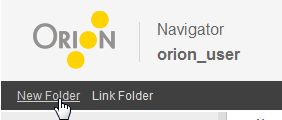
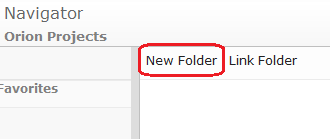
Major updates to user guide for 0.4

diff --git a/doc/org.eclipse.orion.doc.user/WikiDoc/Orion/Documentation/User_Guide/Reference/Search_Results_page/Search-Results-page.html b/doc/org.eclipse.orion.doc.user/WikiDoc/Orion/Documentation/User_Guide/Reference/Search_Results_page/Search-Results-page.html
@@ -6,16 +6,89 @@
 		<link type="text/css" rel="stylesheet" href="../../../../../book.css"/>
 	</head>
 	<body>
+		<table class="navigation" style="width: 100%;" border="0" summary="navigation">
+			<tr>
+				<th style="width: 100%" align="center" colspan="3">Search Results page</th>
+			</tr>
+			<tr>
+				<td style="width: 20%" align="left"></td>
+				<td style="width: 60%" align="center"></td>
+				<td style="width: 20%" align="right">
+					<a href="Replace-page.html" title="Replace page">
+						<img alt="Next" border="0" src="../../../../../images/next.gif"/>
+					</a>
+				</td>
+			</tr>
+			<tr>
+				<td style="width: 20%" align="left" valign="top"></td>
+				<td style="width: 60%" align="center"></td>
+				<td style="width: 20%" align="right" valign="top">Replace page</td>
+			</tr>
+		</table><hr/>
 		<h1 id="Search_Results_page">Search Results page</h1>
-		<p>The <b>Search Results</b> page displays matches for any search performed in the search entry field in the title area of any page. Each search result includes a link to the file, and a snippet of the first matching portion of the text. This is a natural language search, so searching for "progress bar" will also find similar terms such as "ProgressBar", and words with the same common root ("progressive", "bars", etc).</p>
-		<p>Click <b>Save Search</b> in the tool bar to bookmark a link to this search for future use. Note that this is a bookmark to the search, rather than a specific search result. Clicking a link in the <b>Searches</b> list of the Favorites panel will perform a new search with the same search terms.</p>
+		<p>The <b>Search Results</b> page displays files for any search performed in the search entry field in the title area of any page. Each file is expandable to display all the matches with the lines containing the search keyword and the line number. You can use right arrow key to pop up a 5-line context around the line or you can click on any file or match to open the Orion editor to see the whole file at that line. The page is designed to display multiple pages if the result files exceeds 40. There are previous and next page actions in the tool bar for you to go through all the results.</p>
 		<p>
-			<img border="0" src="images/Orion-search-results-page.png"/>
+			<img border="0" src="images/Orion-search-ResultOverview.png"/>
 		</p>
-		<h2 id="Updating_this_document">Updating this document</h2>
-		<p>This document is maintained in a collaborative wiki.  If you wish to update or modify this document please visit 
-
-			<a href="http://wiki.eclipse.org/Orion/Documentation/User_Guide/Reference/Search_Results_page" target="orion_external">http://wiki.eclipse.org/Orion/Documentation/User_Guide/Reference/Search_Results_page</a>
+		<h2 id="Starting_search">Starting search</h2>
+		<p>Starting search is very simple: just type or paste a keyword in the search entry field and hit enter. The result will be displayed in the same tab of your browser where you entered the keyword. The header of the result displays the total file number and the number range of the first page. Both literal and wild card search are supported. For example, "fo*ar" will hit all the files containing "foobar" while "fo??ar" will hit the same files. Please also note that the search ignores case.</p>
+		<p>
+			<img border="0" src="images/Search_starting_search.png"/>
 		</p>
+		<h2 id="Search_scopes">Search scopes</h2>
+		<p>If you start a search from a page where a folder is presented, or in another word, if bread crumb is presented, the place holder of the search entry field indicates the folder name on which your search will start. Currently the pages supporting this are navigator, git log, editor and search pages. For all other pages, the search will start from the project root. But once you are in the search result page, you can scope up and down the result on the same keyword.</p>
+		<p>
+			<img border="0" src="images/Search_scope_overall.png"/>
+		</p>
+		<h3 id="Scoping_down">Scoping down</h3>
+		<p>Lets assume that you just searched for "function" on a folder and you got 265 files but you want to see the results on a folder you are interested. You can now click on the location column where the interesting folder is presented. The result will be scoped down to that folder by the same keyword.</p>
+		<p>
+			<img border="0" src="images/Search_scope_down.png"/>
+		</p>
+		<h3 id="Scoping_up">Scoping up</h3>
+		<p>If your search result presents a sub folder but you want a broader scope, you can click on any segment in the bread crumb. The result will be scoped up to that folder by the same keyword.</p>
+		<p>
+			<img border="0" src="images/Search_scope_up.png"/>
+		</p>
+		<h2 id="Saving_search">Saving search</h2>
+		<p>Click <b>Save Search</b> in the tool bar to bookmark a link to this search for future use. Lets say you are searching "foo" on folder "bar". The default name of the saved search is "foo in bar" but you can rename it later to a more meaningful one. Note that this is a bookmark to the search, rather than a specific search result. Clicking on a link in the <b>Searches</b> list of the Favorites panel will perform a new search with the same search terms.</p>
+		<p>
+			<img border="0" src="images/Search_save_search.png"/>
+		</p>
+		<h2 id="Navigating_matches">Navigating matches</h2>
+		<p>There are 4 actions in the tool bar for navigating matches. <b>Expand all</b> and <b>Collapse all</b> are convenient actions to view all matches or just view the file list. <b>Up</b> and <b>Down</b> allow you to just iterate all the files and matches top-down or bottom-up. While you are iterating, the current <b>cursor</b> is moving to indicate where you are. You can also jump over to a specific file or match by clicking on that row, which gives a quick switch-over to where you want to start the iteration. The current <b>cursor</b> is always cached as the browser's cookie based on the search URL. If you leave the page and come back or refresh the page, the current cursor is restored.</p>
+		<h2 id="Key_board_navigation">Key board navigation</h2>
+		<p>When search result page is loaded, the result pane is focused and the current cursor is highlighted. You can use the 4 arrow keys to navigate on the current cursor. Up and down keys to iterate files and matches and left and right keys to collapse and expand files. Note that key board navigation is available only when the <b>result pane</b> gets focus. If focus is not on the result pane, just click on any place in the result pane to get it back.</p>
+		<p>
+			<img border="0" src="images/Search_kb_navigation.png"/>
+		</p>
+		<h2 id="Viewing_details">Viewing details</h2>
+		<p>There are two ways to view details on a match. When the current cursor is on a match, pressing right arrow key will pop up a context tip with 5 lines of code around the hit line. Note that if you use up and down arrow keys from now, the context tip changes contents when a match is iterated. Use left arrow key to cancel context tip. If you want to view more details, press enter key or click on the link of the match. This will open the Orion editor with the line located at the matching place.</p>
+		<p>
+			<img border="0" src="images/Search_view_details.png"/>
+		</p>
+		<h2 id="Navigating_pages">Navigating pages</h2>
+		<p>If the matching file number exceeds the page size, which is 40 by default, the <b>Next page</b> and <b>Previous page</b> actions will appear in the tool bar. Although it is not recommended to change the search URL, but if you really want to view all the results in one page you can change the <b>rows</b> parameter to the total file number. In the example above you can change rows=265 so that the new search url will look like 
+			<a href="http://orion.eclipse.org/search/search.html#?sort=Path" target="orion_external">http://orion.eclipse.org/search/search.html#?sort=Path</a> asc&amp;<b>rows=265</b>&amp;start=0&amp;q=function+Location:/file/B2/bundles/*.  Note that changing this to a large number should only be used in some rare cases, such as replacing more than 40 files at once. Please also note that this could slow down the search and introduce server timeout.
+		</p>
+		<h2 id="Sort_by_name_or_location">Sort by name or location</h2>
+		<h2 id="Stale_files">Stale files</h2>
+		<h2 id="Current_limitation">Current limitation</h2><hr/>
+		<table class="navigation" style="width: 100%;" border="0" summary="navigation">
+			<tr>
+				<td style="width: 20%" align="left"></td>
+				<td style="width: 60%" align="center"></td>
+				<td style="width: 20%" align="right">
+					<a href="Replace-page.html" title="Replace page">
+						<img alt="Next" border="0" src="../../../../../images/next.gif"/>
+					</a>
+				</td>
+			</tr>
+			<tr>
+				<td style="width: 20%" align="left" valign="top"></td>
+				<td style="width: 60%" align="center"></td>
+				<td style="width: 20%" align="right" valign="top">Replace page</td>
+			</tr>
+		</table>
 	</body>
 </html>

diff --git a/doc/org.eclipse.orion.doc.user/WikiDoc/Orion/Documentation/User_Guide/Getting_started/Getting-started.html b/doc/org.eclipse.orion.doc.user/WikiDoc/Orion/Documentation/User_Guide/Getting_started/Getting-started.html
@@ -20,7 +20,9 @@
 			<a href="../../../../\Orion\Documentation\User_Guide\Reference\Navigator_page/Navigator-page.html" title="Orion/Documentation/User_Guide/Reference/Navigator_page">Navigator page</a> is used to browse and modify your files.
 		</p>
 		<h3 id="Creating_folders_and_files">Creating folders and files</h3>
-		<p>Once you've successfully logged into Orion, you'll see the navigator page. This is where your files and folders will be shown. Because you haven't created any files or folders yet, the navigator is initially empty.</p>
+		<p>Once you've successfully logged into Orion, go to the 
+			<a href="../../../../\Orion\Documentation\User_Guide\Reference\Navigator_page/Navigator-page.html" title="Orion/Documentation/User_Guide/Reference/Navigator_page">Navigator page</a> by clicking <b>Navigator</b> in the banner at the top of any page. This is where your files and folders will be shown. Because you haven't created any files or folders yet, the navigator is initially empty.
+		</p>
 		<p>
 			<img border="0" src="images/Orion-navinitial.png"/>
 		</p>
@@ -34,27 +36,23 @@
 		<p>
 			<img border="0" src="images/Orion-navbreadcrumb.png"/>
 		</p>
-		<h3 id="Using_commands">Using commands</h3>
-		<p>Global commands for Orion (such as search, user profile, and help) appear at the top right of the page. Links to other pages appear beside the global commands.
-			Commands that operate on the navigator (such as <tt>New File</tt>, <tt>New Folder</tt>) are located on the left side of the dark bar in the banner.</p>
+		<h3 id="Using_the_common_banner">Using the common banner</h3>
+		<p>The banner provides access to common operations in Orion.  The main navigation links appear at the top left of the page banner, next to the Orion logo.  The right side of the banner provides links to the user profile and an options menu containing settings, help, and other commonly used actions.  Underneath, the page header describes the title of the page, the breadcrumb, and the name of the resource being manipulated.  On the right of the page header are items that let you quickly find and mark pages that you commonly use.  The star icon allows you to mark the current page as a favorite.  The search box and <tt>Related pages</tt> menu allow you to quickly navigate to a new page.  </p>
+		<p>Below the banner, the content of the page appears.  Commands that operate on the content itself (such as <tt>New File</tt>, <tt>New Folder</tt> in the navigator) are located in the toolbar above the content.</p>
 		<p>
 			<img border="0" src="images/Orion-topbanner.png"/>
 		</p>
-		<p>Commands that apply to an individual file or folder are located in the 
-			<b>Actions</b> column next to the item.
-		</p>
+		<p>Commands that apply to an individual file or folder are located in an actions menu next to the item in the navigator.</p>
 		<p>
 			<img border="0" src="images/Orion-navactions.png"/>
 		</p>
-		<p>Files and folders may be selected by clicking the checkbox beside their name. Commands that operate on the selected items (such as move, copy, and delete) will appear on the dark bar in the banner when a selection has been made.</p>
+		<p>Files and folders may be selected by clicking the checkbox beside their name. Commands that operate on the selected items (such as move, copy, and delete) will appear on the navigator toolbar when a selection has been made.</p>
 		<h3 id="Importing_folders_and_files">Importing folders and files</h3>
-		<p>You can upload zip files from your local machine to the server using the import menu.  </p>
+		<p>There are many ways to import your files into Orion. You can upload a zip file, import via SFTP, or clone a Git repository.</p>
 		<p>
 			<img border="0" src="images/Orion-navimport.png"/>
 		</p>
-		<p>To import projects from Eclipse (or any other IDE, or your local file system) into Orion, you must first zip up the files you wish to import.   Choose this zip file in the file selection prompt offered in the import dialog available when moving the cursor to a folder line and clicking More.  (Choosing a non-zip file may break the import dialog on some browsers, see 
-			<a href="https://bugs.eclipse.org/bugs/show_bug.cgi?id=335890" target="orion_external">Bug 335890</a>).
-		</p>
+		<p>To import files from your local file system into Orion, you must first zip up the files you wish to import.   Choose this zip file in the file selection prompt offered in the import dialog available in the menu next to each folder.</p>
 		<p>
 			<img border="0" src="images/Orion-navimportdialog.png"/>
 		</p>
@@ -73,7 +71,7 @@
 		</p>
 		<h3 id="Creating_favorites">Creating favorites</h3>
 		<p>You can use the 
-			<b>Favorites</b> icon to bookmark a folder or file in your navigator. A link to this folder or file will appear in your favorites list and can be used to navigate quickly to that file or folder. 
+			<b>Favorites</b> icon in the page header or the favorites menu item to bookmark a folder or file in your navigator. A link to this folder or file will appear in your favorites list and can be used to navigate quickly to that file or folder. 
 		</p>
 		<p>
 			<img border="0" src="images/Orion-favorites.png"/>
@@ -81,6 +79,12 @@
 		<p>Favorites are also suggested as move/copy targets.</p>
 		<p>
 			<img border="0" src="images/Orion-copymove.png"/>
+		</p>
+		<p>They also appear in the 
+			<b>Find File</b> dialog.
+		</p>
+		<p>
+			<img border="0" src="images/Orion-findfile.png"/>
 		</p>
 		<h3 id="Extending_the_navigator">Extending the navigator</h3>
 		<p>We've implemented an extension point that allows a plug-in to add commands to the navigator's toolbar and local item actions.  To see what plug-ins are installed in your Orion system, open the 

diff --git a/doc/org.eclipse.orion.doc.user/WikiDoc/Orion/Documentation/User_Guide/Reference/Navigator_page/Navigator-page.html b/doc/org.eclipse.orion.doc.user/WikiDoc/Orion/Documentation/User_Guide/Reference/Navigator_page/Navigator-page.html
@@ -7,10 +7,10 @@
 	</head>
 	<body>
 		<h1 id="Navigator_page">Navigator page</h1>
-		<p>The <b>Navigator</b> page is your primary location for browsing and manipulating files in Orion. The page can be focused on any folder, including the root folder associated with each Orion user. The current folder being displayed is shown in the bread crumb below the word <b>Navigator</b> in the title area. You can browse through a directory hierarchy either by clicking on a folder to open a Navigator page on that folder, or by expanding the tree to show children in the same page. Navigate to parent folders by clicking a parent in the bread crumb at the top of the page. Clicking a file will open that file in the 
+		<p>The <b>Navigator</b> page is your primary location for browsing and manipulating files in Orion. The page can be focused on any folder, including the root folder associated with each Orion user. The current folder being displayed is shown in the bread crumb below the word <b>Navigator</b> in the title area. You can browse through a directory hierarchy either by clicking on a folder to open a Navigator page on that folder, or by expanding the tree to show children in the same page. Navigate to parent folders by clicking a parent in the bread crumb at the top of the page, or by clicking <b>Go Up</b> (Alt+Up on the keyboard). Clicking a file will open that file in the 
 			<a href="../../../../../\Orion\Documentation\User_Guide\Reference\Coding_page/Coding-page.html" title="Orion/Documentation/User_Guide/Reference/Coding_page">Coding page</a>.
 		</p>
-		<p>Commands for operating on files in the Navigator appear in several places, depending on what files and folders they are operating upon. Commands that operate directly on the folder being displayed appear in the tool bar. Commands that operate on individual files and folders in the tree appear in the <b>Action</b> column next to that file. A <b>More</b> menu is used to show additional commands for that file or folder. Commands that operate on the files selected in the table are shown in the <b>More</b> menu in the tool bar.</p>
+		<p>Commands for operating on files in the Navigator appear in several places, depending on what files and folders they are operating upon. Commands that operate directly on the folder being displayed appear in the tool bar. Commands that operate on individual files and folders in the list appear in the drop-down menu next to that file or folder. Commands that operate on the files selected in the table are shown in the <b>More</b> menu in the tool bar.</p>
 		<p>
 			<img border="0" src="images/Orion-navigator-overview.png"/>
 		</p>
@@ -87,15 +87,15 @@
 		<p>
 			<img border="0" src="images/Orion-navigator-favorites.png"/>
 		</p>
-		<h2 id="Keyboard_Navigation">Keyboard Navigation</h2>
+		<h2 id="Keyboard_navigation">Keyboard navigation</h2>
 		<p>You can navigate through the listed files in the <b>Navigator</b> using your keyboard:</p>
 		<ul>
 			<li>To move the current row, use up and down arrow keys. You can also change the current row by mouse: just click on the Date column of any row.</li>
 			<li>To expand/collapse the current row, use right and left arrow keys.</li>
 			<li>To toggle the check box of the current row, use the space key.</li>
 			<li>To select multiple rows, use shift+up/down keys.</li>
-			<li>To open a file or go to a folder in the same page, use enter key.</li>
-			<li>To open a file or go to a folder in a new tab, use control+enter key.</li>
+			<li>To open a file or go to a folder in the same page, use Enterkey.</li>
+			<li>To open a file or go to a folder in a new tab, use Ctrl+Enter key.</li>
 		</ul>
 		<h2 id="Updating_this_document">Updating this document</h2>
 		<p>This document is maintained in a collaborative wiki.  If you wish to update or modify this document please visit 

diff --git a/doc/org.eclipse.orion.doc.user/WikiDoc/Orion/Documentation/User_Guide/Reference/Search_Results_page/Replace-page.html b/doc/org.eclipse.orion.doc.user/WikiDoc/Orion/Documentation/User_Guide/Reference/Search_Results_page/Replace-page.html
@@ -1,0 +1,62 @@
+<?xml version='1.0' encoding='utf-8' ?><!DOCTYPE html PUBLIC "-//W3C//DTD XHTML 1.0 Transitional//EN" "http://www.w3.org/TR/xhtml1/DTD/xhtml1-transitional.dtd">
+<html xmlns="http://www.w3.org/1999/xhtml">
+	<head>
+		<meta http-equiv="Content-Type" content="text/html; charset=utf-8"/>
+		<title>Search Results page - Replace page</title>
+		<link type="text/css" rel="stylesheet" href="../../../../../book.css"/>
+	</head>
+	<body>
+		<table class="navigation" style="width: 100%;" border="0" summary="navigation">
+			<tr>
+				<th style="width: 100%" align="center" colspan="3">Replace page</th>
+			</tr>
+			<tr>
+				<td style="width: 20%" align="left">
+					<a href="Search-Results-page.html" title="Search Results page">
+						<img alt="Previous" border="0" src="../../../../../images/prev.gif"/>
+					</a>
+				</td>
+				<td style="width: 60%" align="center"></td>
+				<td style="width: 20%" align="right"></td>
+			</tr>
+			<tr>
+				<td style="width: 20%" align="left" valign="top">Search Results page</td>
+				<td style="width: 60%" align="center"></td>
+				<td style="width: 20%" align="right" valign="top"></td>
+			</tr>
+		</table><hr/>
+		<h1 id="Replace_page">Replace page</h1>
+		<p>You can replace all or part of the matches by a new string. The replace page displays all the files in a similar way as the result page does but in a addition to that you can use check box to quickly toggle the all, file and match levels. Please also note that if there are multiple matches in a single line, it will be "split" to multiple lines where you can filter on each match you want.</p>
+		<h2 id="Invoking_replace">Invoking replace</h2>
+		<h2 id="Filtering_matches">Filtering matches</h2>
+		<h2 id="Viewing_differences">Viewing differences</h2>
+		<h2 id="Replacing_page_by_page">Replacing page by page</h2>
+		<h2 id="Committing_changes">Committing changes</h2>
+		<h2 id="Report_page">Report page</h2>
+		<h2 id="Updating_this_document">Updating this document</h2>
+		<p>This document is maintained in a collaborative wiki.  If you wish to update or modify this document please visit 
+
+			<a href="http://wiki.eclipse.org/Orion/Documentation/User_Guide/Reference/Search_Results_page" target="orion_external">http://wiki.eclipse.org/Orion/Documentation/User_Guide/Reference/Search_Results_page</a>
+		</p><hr/>
+		<table class="navigation" style="width: 100%;" border="0" summary="navigation">
+			<tr>
+				<td style="width: 20%" align="left">
+					<a href="Search-Results-page.html" title="Search Results page">
+						<img alt="Previous" border="0" src="../../../../../images/prev.gif"/>
+					</a>
+				</td>
+				<td style="width: 60%" align="center">
+					<a href="Search-Results-page.html" title="Search Results page">
+						<img alt="Search Results page" border="0" src="../../../../../images/home.gif"/>
+					</a>
+				</td>
+				<td style="width: 20%" align="right"></td>
+			</tr>
+			<tr>
+				<td style="width: 20%" align="left" valign="top">Search Results page</td>
+				<td style="width: 60%" align="center"></td>
+				<td style="width: 20%" align="right" valign="top"></td>
+			</tr>
+		</table>
+	</body>
+</html>

diff --git a/doc/org.eclipse.orion.doc.user/WikiDoc/Orion/Documentation/User_Guide/Reference/Profile_page/Profile-page.html b/doc/org.eclipse.orion.doc.user/WikiDoc/Orion/Documentation/User_Guide/Reference/Profile_page/Profile-page.html
@@ -7,11 +7,12 @@
 	</head>
 	<body>
 		<h1 id="Profile_page">Profile page</h1>
-		<p>You can access your user profile page by selecting <b>Profile</b> from the drop-down menu next to your user name on the right hand side of the title area.</p>
+		<p>You can access your user profile page by clicking on your user name on the right hand side of the page header.</p>
 		<p>
 			<img border="0" src="images/Orion-user-profile-menu.png"/>
 		</p>
-		<p>From this page you can change information such as your name and Git author information. You can also use this page to change your password. Make any desired changes in the text fields, and then click <b>Save Profile</b> in the tool bar.</p>
+		<p>From this page you can change information such as your name, email address, and Git author information. You can also use this page to change your password. Make any desired changes in the text fields, and then click <b>Save Profile</b> in the tool bar.</p>
+		<p>It is important to always keep a current email address associated with your Orion profile. This email address will only be used to enable the Orion server to communicate with you, such as performing an automated password reset. If you forget your password and there is no valid email address on your profile, you will need manual assistance from your server administrator.</p>
 		<p>You can also use this page to link an external account to your Orion profile. Click one of the buttons in the <b>Manage External Accounts</b> section to connect a Google, Yahoo, AOL, or myOpenID account to Orion. This will allow you to login to Orion by clicking the corresponding icon on the Orion 
 			<a href="../../../../../\Orion\Documentation\User_Guide\Reference\Login_page/Login-page.html" title="Orion/Documentation/User_Guide/Reference/Login_page">Login page</a>. Note that this does not share any personal information from that account with Orion. It simply allows the external service to confirm your identity, so you have one less password to worry about remembering.
 		</p>

diff --git a/doc/org.eclipse.orion.doc.user/WikiDoc/Orion/Documentation/User_Guide/Reference/Git_Log_page/Git-Log-page.html b/doc/org.eclipse.orion.doc.user/WikiDoc/Orion/Documentation/User_Guide/Reference/Git_Log_page/Git-Log-page.html
@@ -35,9 +35,7 @@
 		<p>
 			<img border="0" src="images/Orion-git-log-actions.png"/>
 		</p>
-		<p>Click any commit in the list to open a pane showing detailed information about the commit. This pane includes author information, the commit message, and the SHA-1 hash that uniquely identifies that commit in the Git repository. The pane also shows a list of all files that had changes in that commit. Click the command icon next to any file in that pane to open the 
-			<a href="../../../../../\Orion\Documentation\User_Guide\Reference\Compare_page/Compare-page.html" title="Orion/Documentation/User_Guide/Reference/Compare_page">Compare page</a> showing the differences in that file. The area where commands appear is highlighted in the image below.
-		</p>
+		<p>Hover on any commit in the list to see a tooltip dialog with detailed information about the commit. It includes author information, the commit message, a link to the parent commit, and the SHA-1 hash that uniquely identifies that commit in the Git repository. </p>
 		<p>
 			<img border="0" src="images/Orion-git-log-commit-details.png"/>
 		</p>

diff --git a/doc/org.eclipse.orion.doc.user/WikiDoc/Orion/Documentation/User_Guide/Reference/Login_page/Login-page.html b/doc/org.eclipse.orion.doc.user/WikiDoc/Orion/Documentation/User_Guide/Reference/Login_page/Login-page.html
@@ -16,6 +16,9 @@
 		<p>To authorize using an external account, you have to first register that account with your Orion account from the Orion 
 			<a href="../../../../../\Orion\Documentation\User_Guide\Reference\Profile_page/Profile-page.html" title="Orion/Documentation/User Guide/Reference/Profile page">Profile page</a>. 
 		</p>
+		<p>If you ever forget your password, you can click <b>Forgot your password?</b> to request a password reset. To be able to reset your password, you must have previously supplied an email address from the 
+			<a href="../../../../../\Orion\Documentation\User_Guide\Reference\Profile_page/Profile-page.html" title="Orion/Documentation/User Guide/Reference/Profile page">Profile page</a>.
+		</p>
 		<p>Here is a complete view of the Login page:</p>
 		<p>
 			<img border="0" src="images/Orion-0-3-login-page.png"/>

diff --git a/doc/org.eclipse.orion.doc.user/WikiDoc/Orion/Documentation/User_Guide/Reference/Welcome_page/Welcome-page.html b/doc/org.eclipse.orion.doc.user/WikiDoc/Orion/Documentation/User_Guide/Reference/Welcome_page/Welcome-page.html
@@ -8,7 +8,7 @@
 	<body>
 		<h1 id="Welcome_page">Welcome page</h1>
 		<p>The <b>Welcome</b> page is the first page you typically see when browsing to an Orion server. The page provides some pointers on how to get started with adding code to Orion, and includes a history of recently accessed folders in your workspace. You can click on the Orion logo from any page to get back to this welcome page.</p>
-		<p>The <i>title area</i>, shown on all Orion pages, also lets you navigate to various key Orion pages, view your profile, log out, or go to the help system (the '?' icon on the far right side).</p>
+		<p>The <i>page header</i>, shown on all Orion pages, also lets you navigate to various key Orion pages, view your profile, log out, or access the <b>Options</b> menu.</p>
 		<p>
 			<img border="0" src="images/Orion-welcome-page.png"/>
 		</p>

diff --git a/doc/org.eclipse.orion.doc.user/WikiDoc/Orion/Documentation/User_Guide/Reference/Repositories_page/Repositories-page.html b/doc/org.eclipse.orion.doc.user/WikiDoc/Orion/Documentation/User_Guide/Reference/Repositories_page/Repositories-page.html
@@ -11,6 +11,9 @@
 		<p>
 			<img border="0" src="images/Orion-repository-page.png"/>
 		</p>
+		<p>
+			<img border="0" src="images/Orion-repository-page_details.png"/>
+		</p>
 		<h2 id="Repository_configuration">Repository configuration</h2>
 		<p>Click on any repository in your list to open a <b>Repository configuration</b> panel. From here you can add additional configuration properties to the repository, and change or delete properties using the command icons that hover next to each property in the list.</p>
 		<p>
